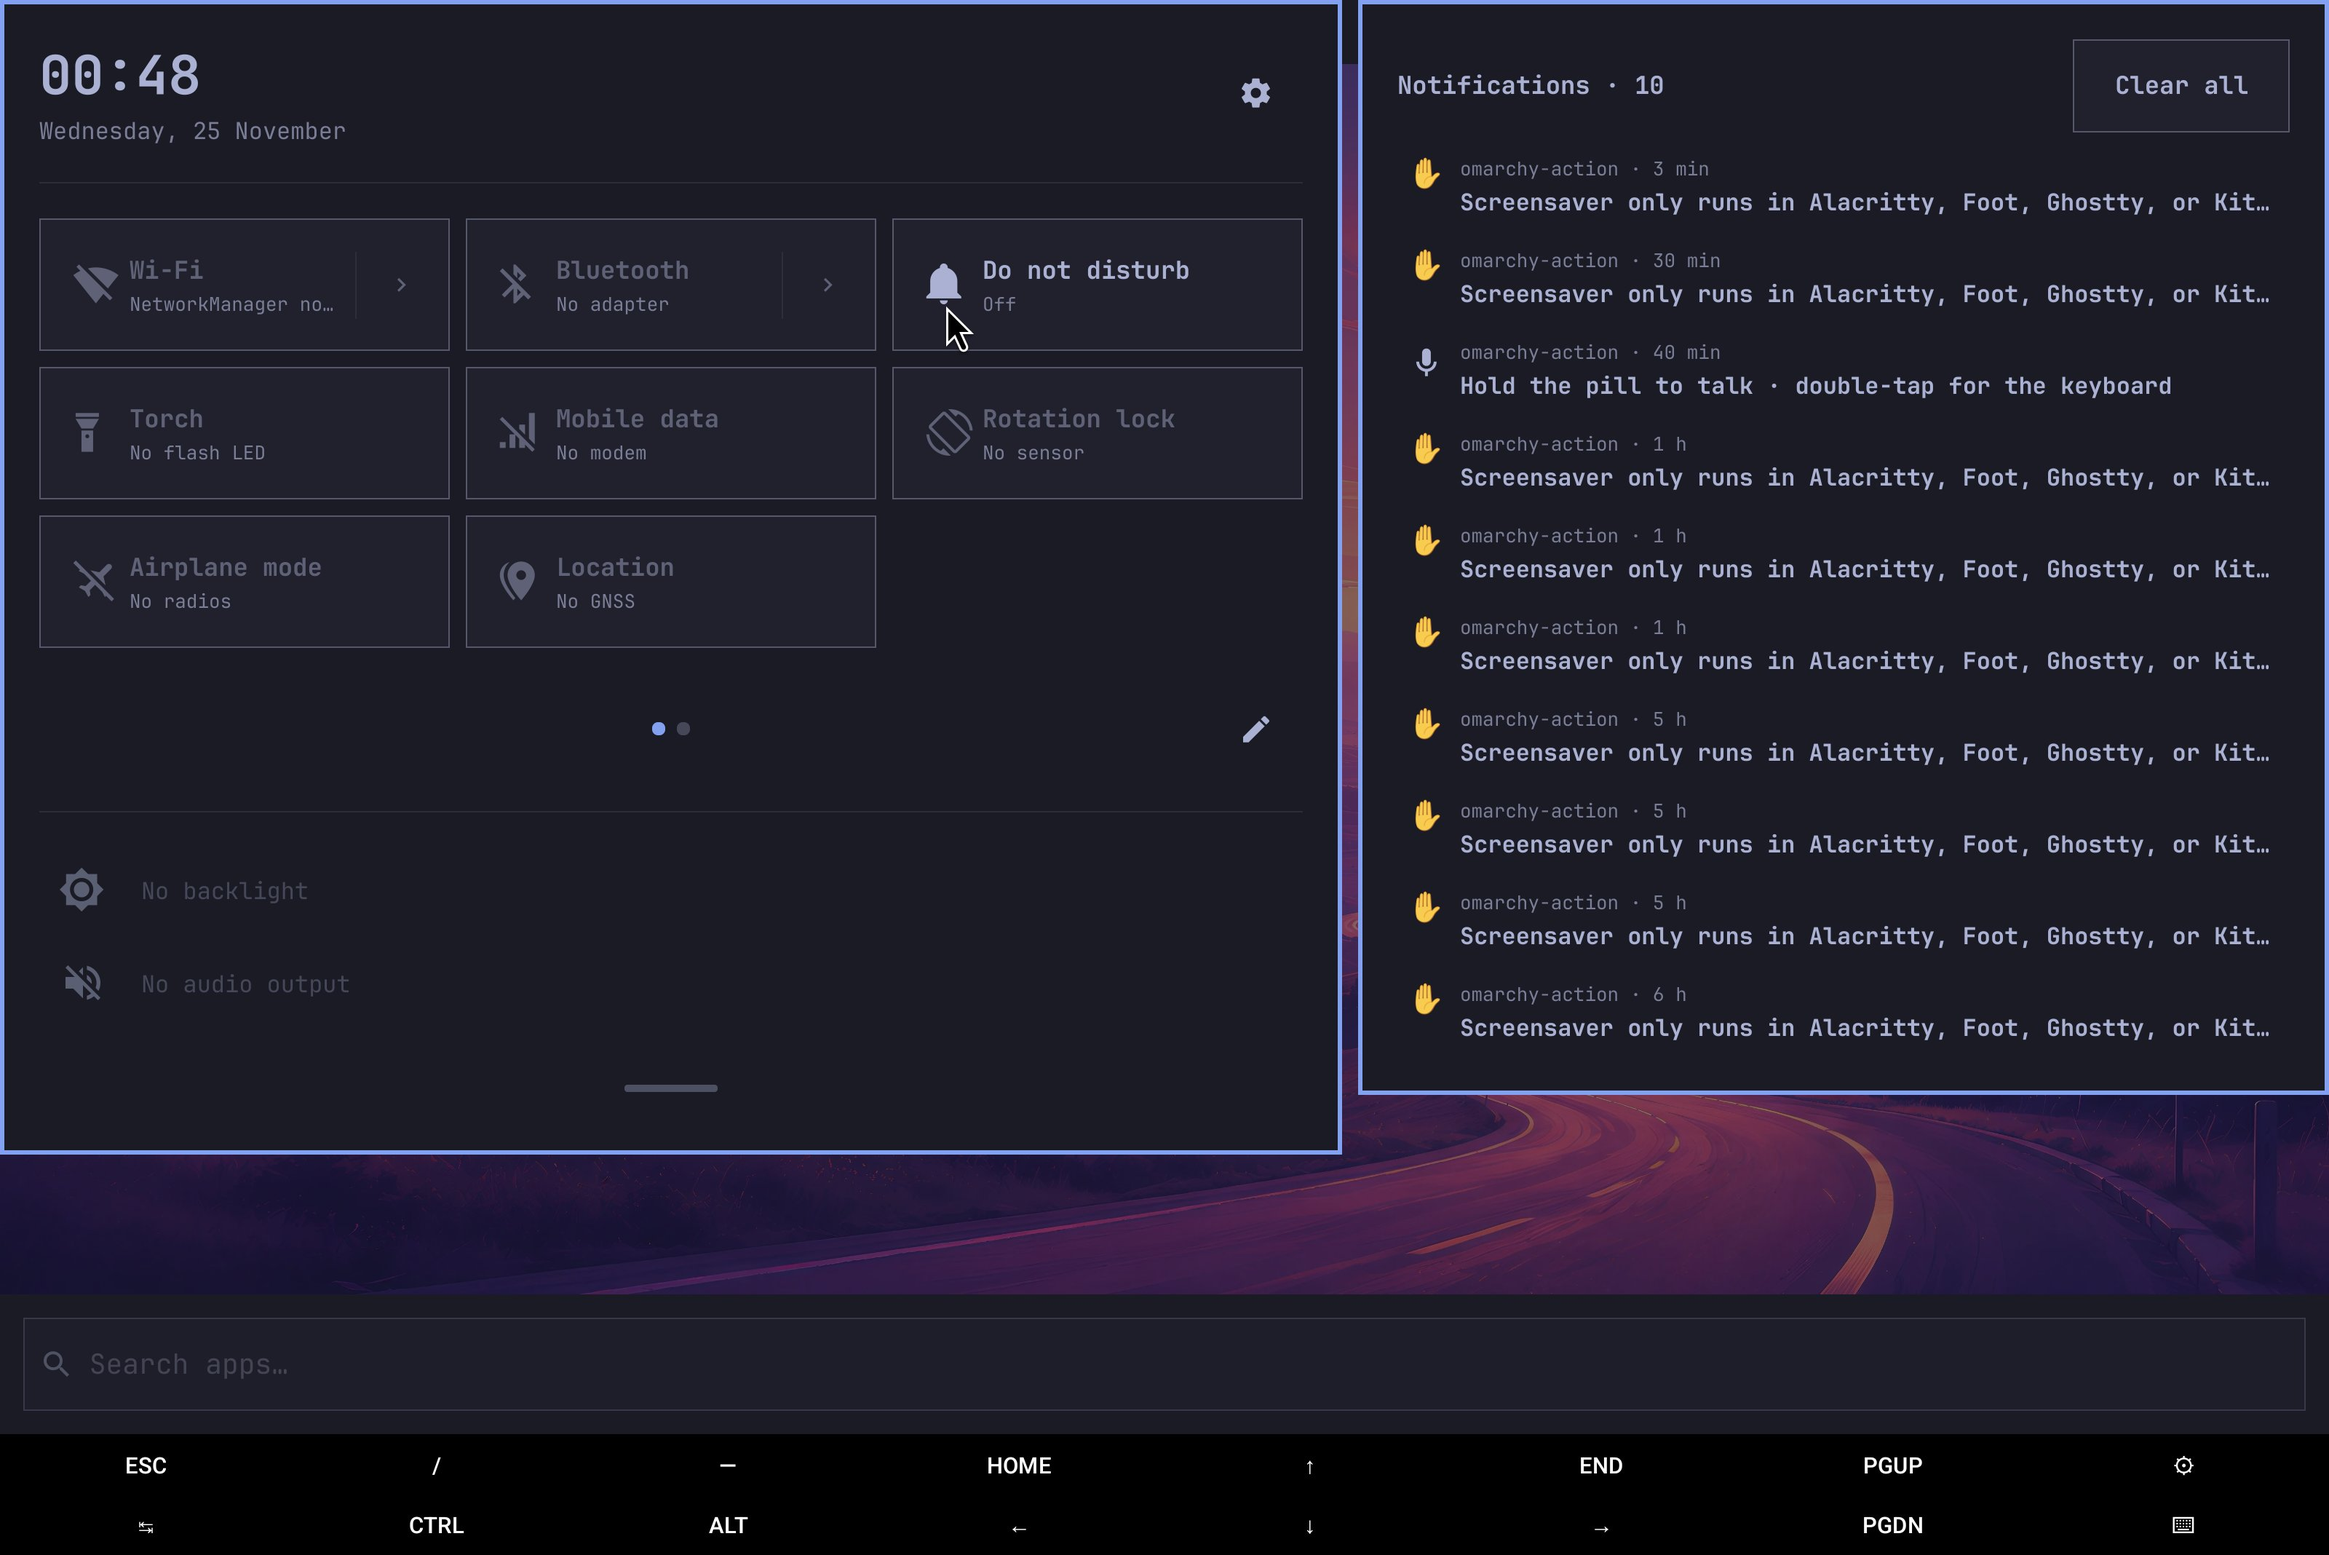
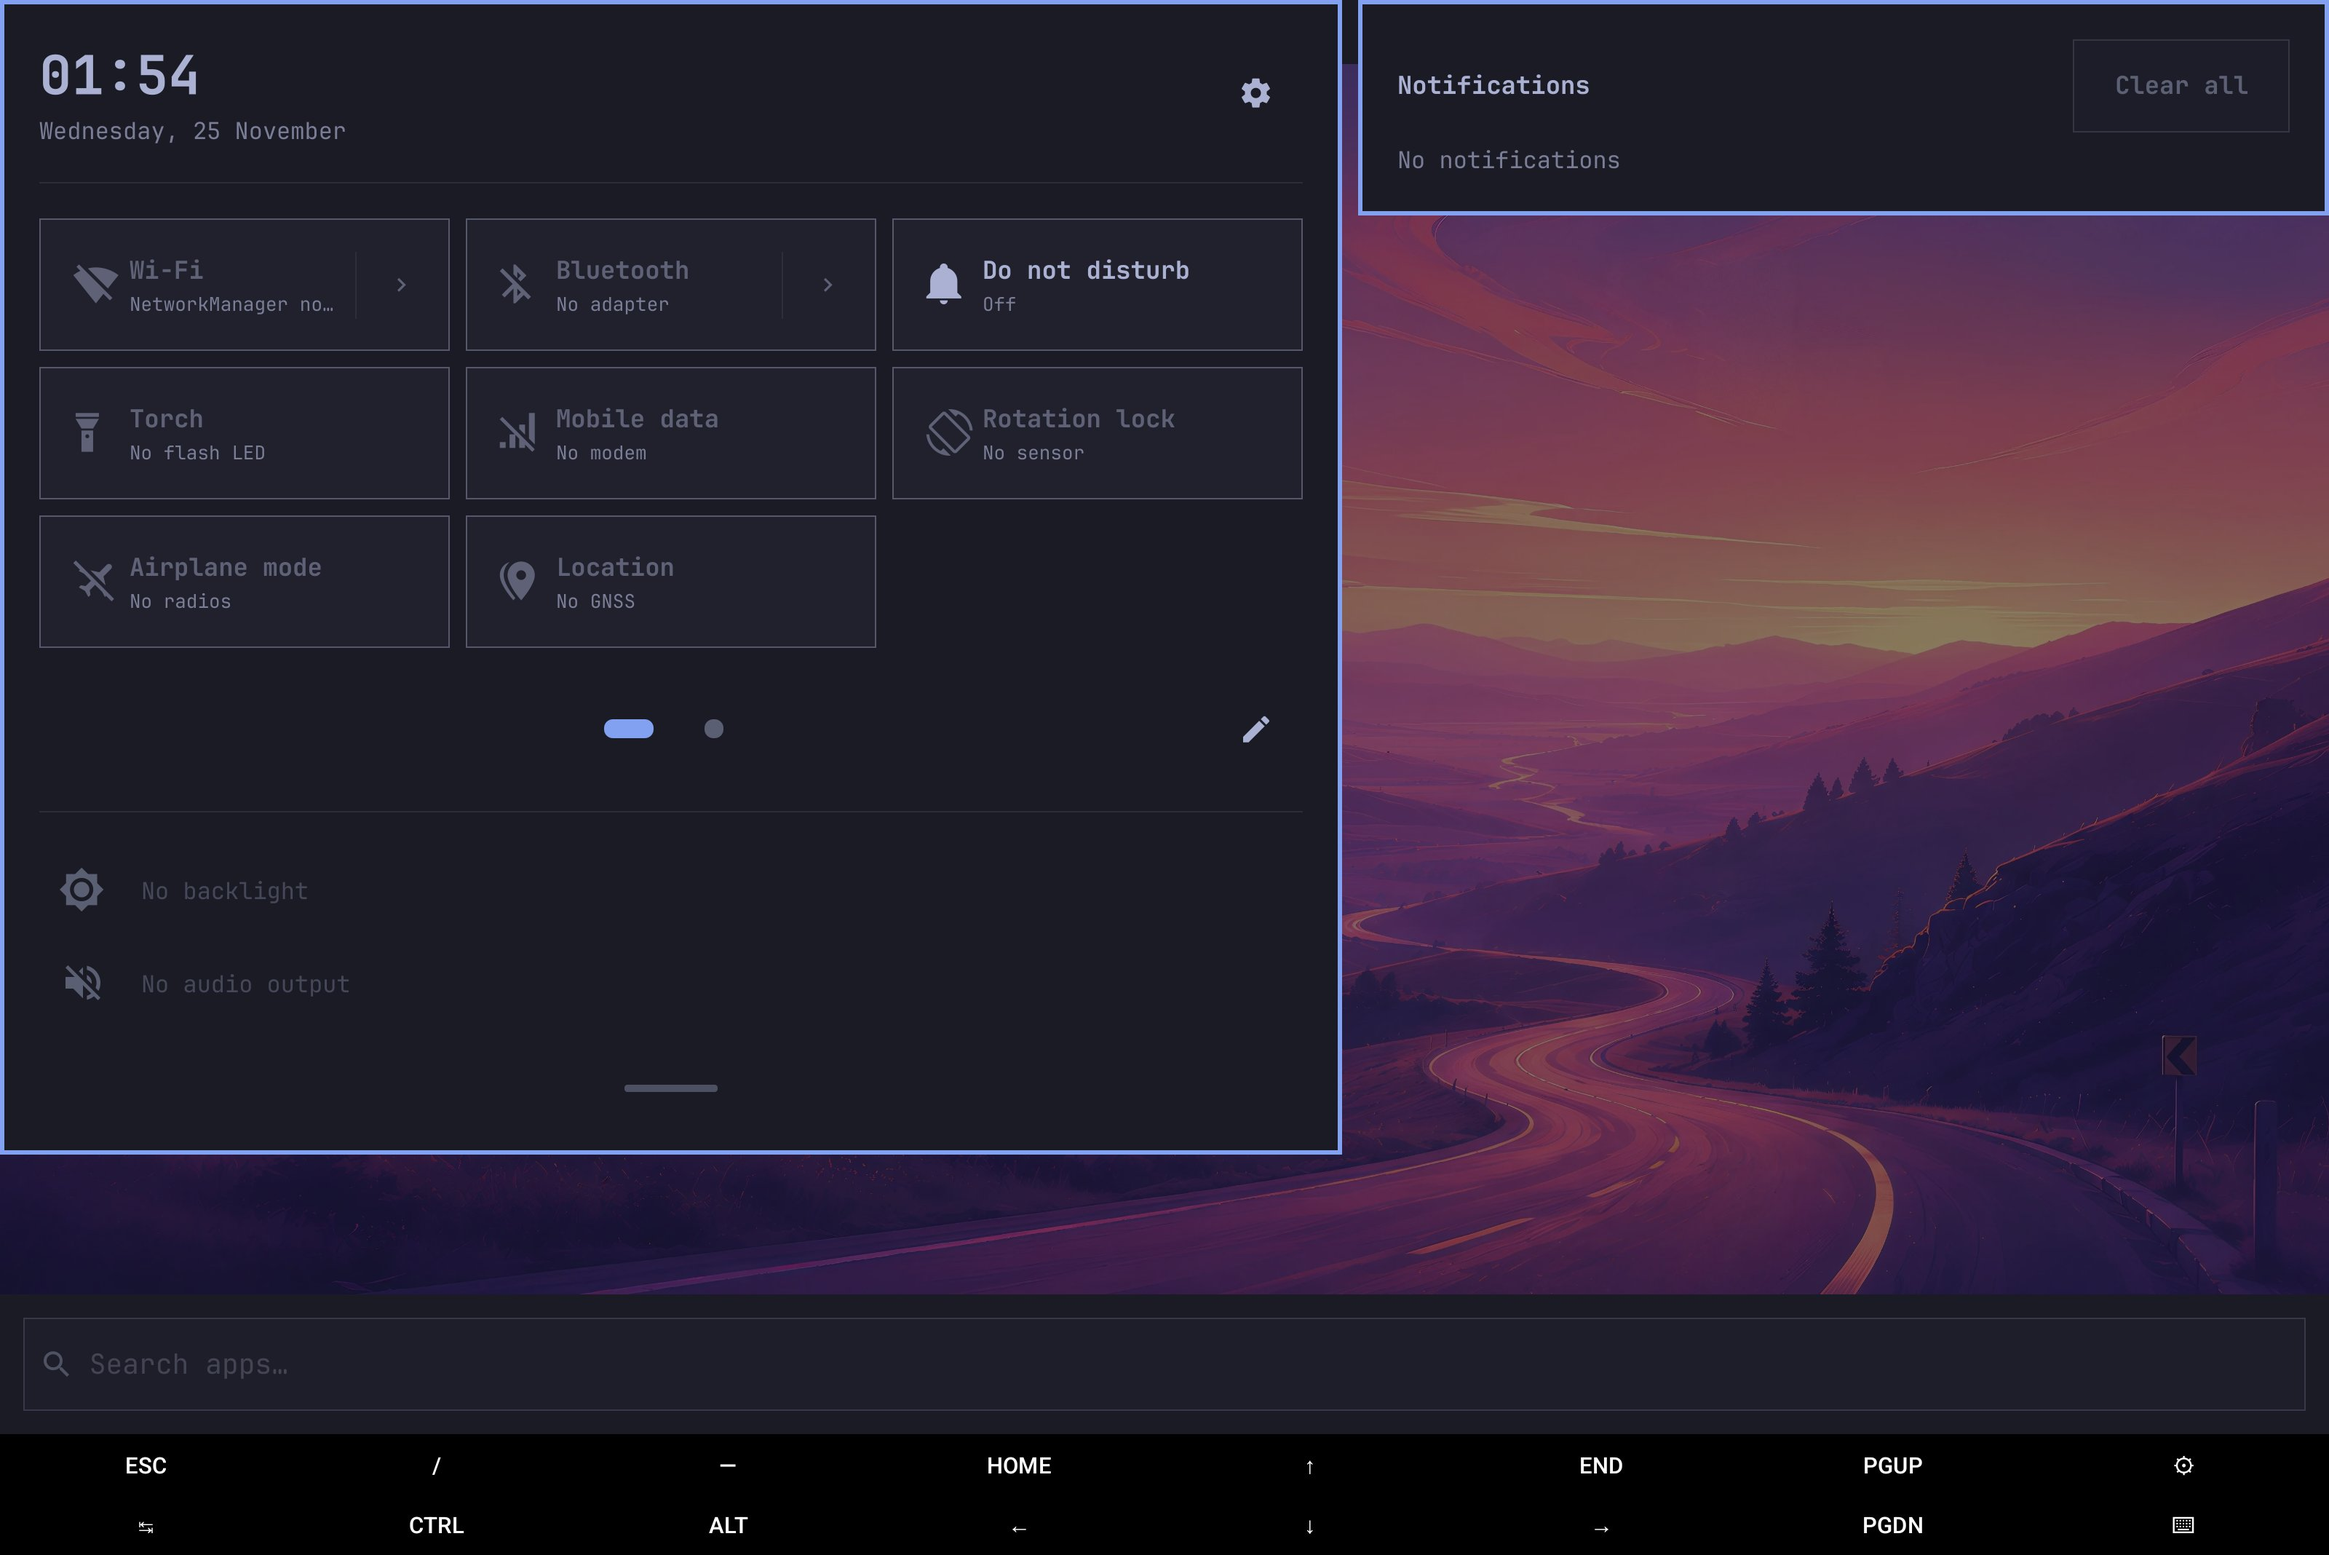
docs: round 5 device report, round 2 R8 and the two mobile screenshots from the R7 build

diff --git a/docs/omarchy/r5-mobile-ui-device-report.md b/docs/omarchy/r5-mobile-ui-device-report.md
@@ -163,14 +163,14 @@ Real touch shipped in between (`docs/omarchy/r5-touch-device-report.md`): the gu
 
 | Step | Status | Decisive fact |
 |---|---|---|
-| R1 screensaver notifications | **PASS** | Cause: the guest has no `xdg-terminal-exec`, so `omarchy-launch-screensaver` gets an empty terminal and notifies. It also lacks `ttfx` and the branding text, so the screensaver cannot run here (details below). Fix `6b31334`: Omarchy's own `screensaver-off` flag, set once in both modes. Proof: `dbus-monitor` on `Notify` for **610 s** idle. Inside the window the idle cycle started (`idle-cycle-start: screensaver=150 lock=300` at 01:25:54) and the screensaver process exited 1. **0** "Screensaver only runs" calls (the 1 Notify seen was my own probe). `omarchy-launch-screensaver` run by hand exits 1 with no Notify. A second `omdroid-ui.sh` run changes nothing. |
+| R1 screensaver notifications | **PASS** | Cause: the guest has no `xdg-terminal-exec`, so `omarchy-launch-screensaver` gets an empty terminal and notifies. It also lacks `ttfx` and the branding text, so the screensaver cannot run here (details below). Fix `6b31334`: Omarchy's own `screensaver-off` flag, set once in both modes. Proof: `dbus-monitor` on `Notify` for **610 s** idle. Inside the window the idle cycle started (`idle-cycle-start: screensaver=150 lock=300` at 01:25:54) and the screensaver process exited 1. **0** "Screensaver only runs" calls (the 1 Notify seen was my own probe). `omarchy-launch-screensaver` run by hand exits 1 with no Notify. A second `omdroid-ui.sh` run changes nothing. **Again on the R7 build**: 610 s idle (01:44:22-01:54:32). The screensaver ran at 01:46:26 and exited 1, the lock timer fired at 01:48:56, and the window saw **0 Notify calls in total**. |
 | R2 pill hint | **PASS** | `9229e3b`: with the done marker cleared and an app opened, the strip's hint Notify reads "Swipe up on the pill to go home · swipe up and hold for recent apps" (`dbus-monitor`), and `omdroid-pill-hint` is claimed. The toast shows top right (`shots/r2-hint.png`). R6 checks both gestures it names. |
 | R3 menu's last row | **PASS** (no change needed) | The stock menu caps the card at 70 % of the screen and ends it mid-row on purpose, as a "more below" cue (`Menu.qml:150-175`). Its `ListView` scrolls. With real touch, one quick swipe up on the list (`input touchscreen swipe 1600 1400 1600 600 180`) scrolls it so **System** is fully visible (`shots/r3-menu-ab.png`, left as opened, right after the swipe). |
 | R4 pointer after touch | **PASS** | The stock `~/.config/hypr/looknfeel.lua:20` sets `hide_on_touch = false`. Before: an arrow is drawn at the last tap (`shots/r4-cursor-ab.png`, left). Fix `d5cc16d`: the mobile block sets `cursor = { hide_on_touch = true }`. On the device, reset at runtime to `false` → `omdroid-ui.sh` rewrites the block → Hyprland reloads to `bool: true` → two taps → no arrow at the tapped spot (`shots/r2r4-check.png`, left). Desktop mode drops the block, so the stock `false` returns. |
 | R5 quick-settings page dots | **PASS** | `2cfe009`: each dot is a `Style.space(44)` target (59 logical, 117 screen px at 16 px type) with a 10 px dot; the current page is a wide accent pill (`shots/r5-dots-1.png`). A tap on the other dot at (862,1000) moved the accent pill from x 948-1015 to **830-897** and turned the tile page (20367 sampled tile-area pixels changed, `r5-dots-2.png`). |
 | R6 quick swipes, look again | **PASS** (nothing needs a hold) | Real touch, `input touchscreen swipe … 120-200 ms`, no hold anywhere. Dock swipe-up → switcher **3/3**. Pill short swipe → home (workspace 1 → 2, dock back). Pill long swipe → recents. Card flick up → its window closes (`clients 1 → 0`). Back from x = **20** and from x = **4** → Escape (`1b`) in the test window. Bar pull-down → quick settings, sheet swipe-up → closed. Tap dock → drawer, swipe down → closed; a swipe up leaves it open (19 apps fit, nothing to scroll). Look (`shots/r6-look.png`): drawer icons 18/19 (Discord ships no PNG); quick settings fine. The shade still lists screensaver notices and the old pill hint from before the fixes (history, cleared in R8). No new defect of mine. |
[1 lines of base64/hex data omitted]
-| R8 screenshots, finish | PENDING | |
+| R8 screenshots, finish | **PASS** | Both shots are from the R7 build, after the notification history was cleared (`notifications clear` IPC; it held only test and system notices). `docs/screenshots/mobile-desktop.jpg` (3200x2136, JPEG q85): the home screen. It shows the 44 px bar (clock, Wi-Fi-off icon), wallpaper and the "Search apps…" dock, with no pointer, toast or window. `docs/screenshots/mobile-quicksettings.jpg` (q85): page 1 of the expanded sheet, three columns, the wide page pill on the left and a round dot for page 2. Every missing backend is dimmed with its reason; only `NetworkManager no…` is cut. The shade reads "No notifications". Finish: mobile mode (mode file absent), `clients 0`, quick settings closed, `probe.sh -q` → `VERDICT: PASS`, `stay_on_while_plugged_in` restored to **0** and read back `0`. My test scripts were deleted from the guest `/tmp`. |
 
 ## R1. Why the screensaver notification fired
 
